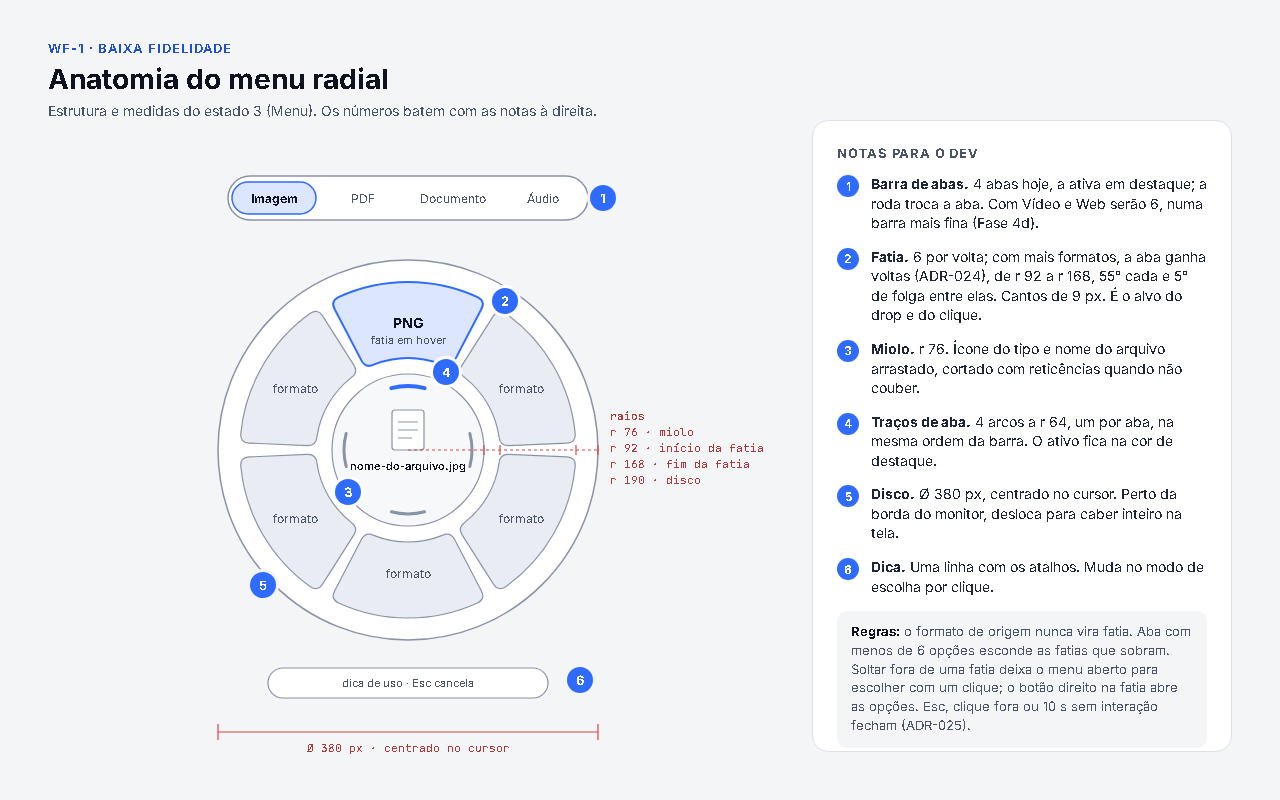
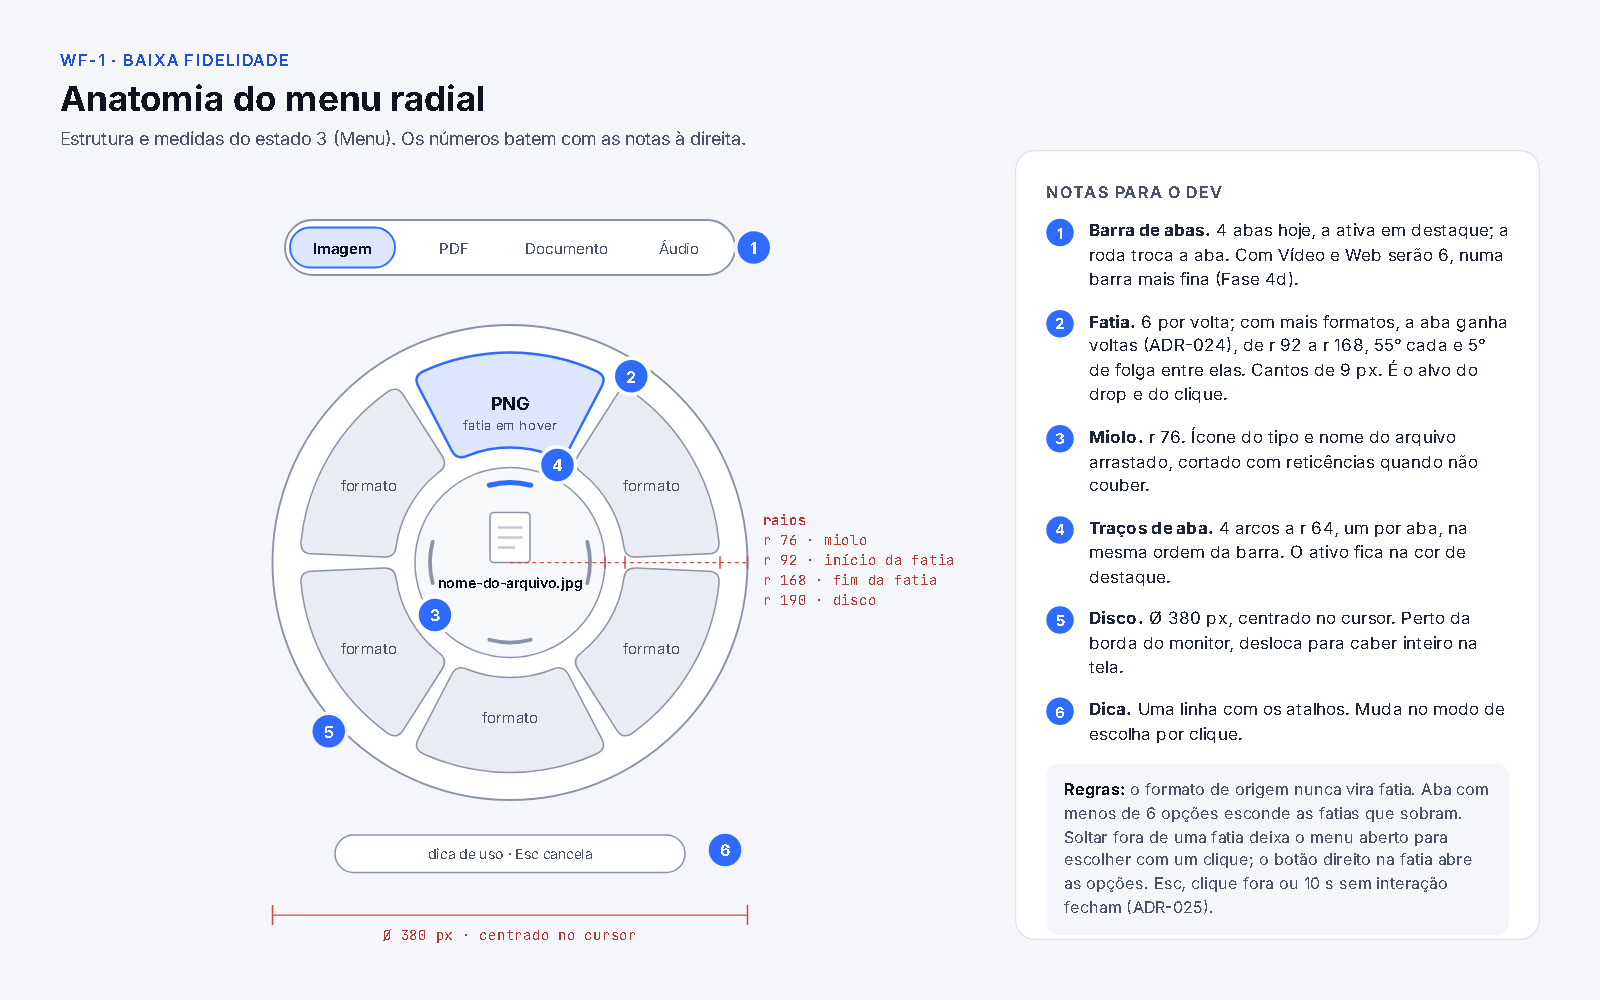
docs(dossie): etapa 1, padrão único e barra de abas
Padrão decidido pelo mantenedor: documentação em tema claro, 1600 x
1000, fundo #f4f6fa; telas do Pizza em claro e escuro lado a lado.
- Wireframes ampliados 1,25x; pranchas mais altas reduzidas na
  proporção para caber em 1000 px; MKT-2 centralizada.
- Ref-Texto-Fatias refeita com a versão B nos dois temas.
- Prancha nova Ref-Barra-Abas: A (texto curto, 38 px) e B (ícone e
  nome, 44 px), nos dois temas, com o conflito com os 44 px de
  acessibilidade.
- ENG-1 e ENG-4 com os nomes reais (Overlay, Notifications), rótulos
  sem quebra sobre as setas e done(tempo) sem caminho (SEC-15).

diff --git a/docs/dossie/README.md b/docs/dossie/README.md
@@ -11,6 +11,8 @@ Pranchas do planejamento do Pizza, feitas antes do código, em 08/11/2026 e 09/1
 - implantação;
 - wireframes.
 
+> **Padrão desde 11/11/2026:** pranchas de documentação em tema claro, 1600 × 1000, fundo único; telas do Pizza em claro e escuro lado a lado.
+>
 > **Revisão de 10/11/2026:** as pranchas foram atualizadas para bater com a SPECS v1.2. Se alguma ainda divergir, valem as [SPECS](../SPECS.md) (em especial a §2.1, com as emendas) e os [ADRs](../adr/).
 >
 > As principais mudanças desde o planejamento são estas:
@@ -47,9 +49,15 @@ Pranchas do planejamento do Pizza, feitas antes do código, em 08/11/2026 e 09/1
 
 ### Referência · texto das fatias
 
-Decidido em 10/11/2026: **B · Curva completa**. A versão A, sem girar, foi descartada porque a descrição longa não cabia nas fatias laterais sem quebrar a linha.
+Decidido em 10/11/2026: **B · Curva completa**, mostrada nos temas claro e escuro. A versão A, sem girar, foi descartada porque a descrição longa não cabia nas fatias laterais sem quebrar a linha.
 
 ![Texto das fatias](ref-texto-fatias.png)
+
+### Referência · barra de abas para seis abas
+
+Para escolher na Fase 4d: A (texto curto, 38 px) ou B (ícone e nome, 44 px), nos dois temas. A barra 70% mais fina deixa os alvos abaixo dos 44 px de acessibilidade (NFR-06).
+
+![Barra de abas](ref-barra-abas.png)
 
 ## Arquitetura
 
